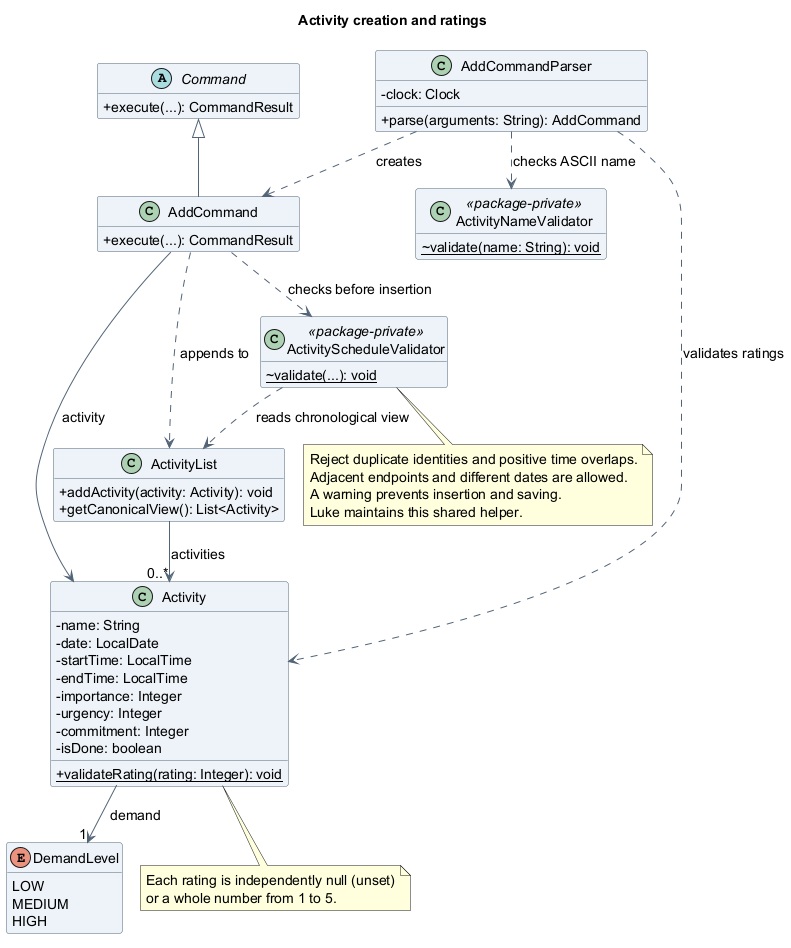
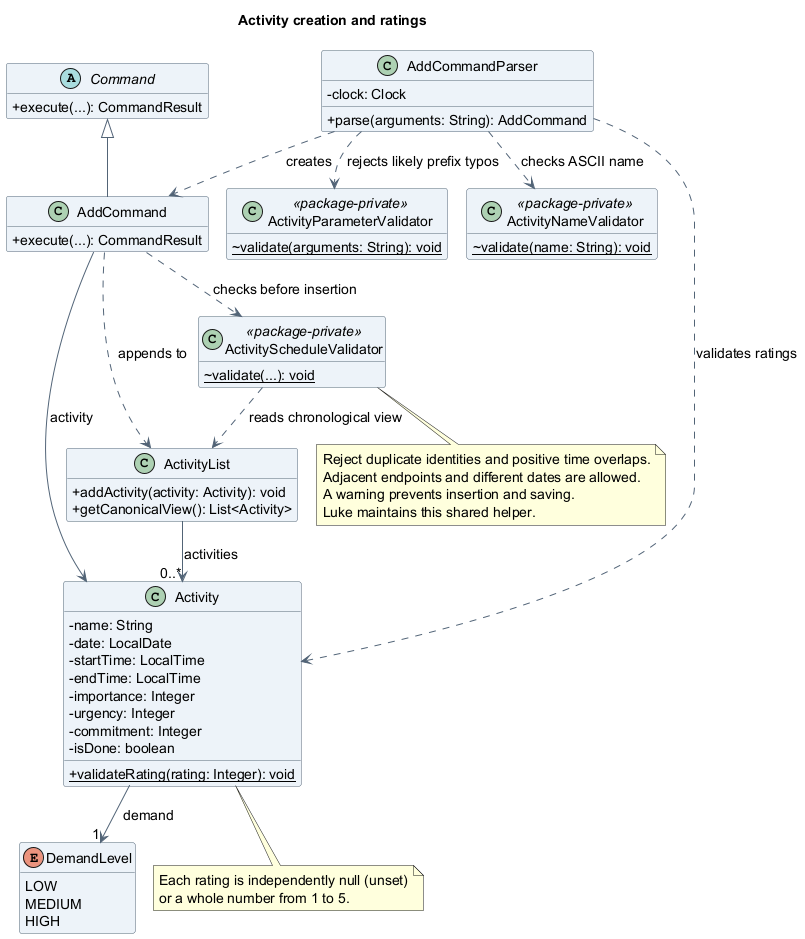
fix(parser): warn and reject likely activity parameter typos
Detect one-edit misspellings and adjacent swaps in multi-letter prefixes before add or edit can absorb them into a name. Keep normal slash-containing names valid, verify warnings and unchanged saved data through the console, and update guides and input-validation diagrams under their existing feature scopes.

diff --git a/src/main/java/seedu/unienable/parser/ActivityParameterValidator.java b/src/main/java/seedu/unienable/parser/ActivityParameterValidator.java
@@ -1,0 +1,71 @@
+//@@author lukelouyu
+package seedu.unienable.parser;
+
+import java.util.List;
+import java.util.Locale;
+import java.util.regex.Matcher;
+import java.util.regex.Pattern;
+
+import seedu.unienable.exception.ParseException;
+
+/**
+ * Catches likely misspellings of activity fields without treating every slash in a name as a field.
+ */
+final class ActivityParameterValidator {
+    private static final Pattern PARAMETER = Pattern.compile("(?i)(?<!\\S)([a-z]+)/");
+    private static final List<String> PREFIXES = List.of("n", "d", "s", "e", "dem", "imp", "urg", "com");
+
+    /** Prevents instantiation of this shared parser helper. */
+    private ActivityParameterValidator() {
+    }
+
+    /**
+     * Rejects a one-edit typo in a multi-letter prefix, including an adjacent transposition.
+     * Ordinary slash text such as and/or, w/o and module codes remains valid name content.
+     *
+     * @param arguments unparsed activity fields.
+     * @throws ParseException when a token is likely a misspelled parameter.
+     */
+    static void validate(String arguments) throws ParseException {
+        Matcher matcher = PARAMETER.matcher(arguments);
+        while (matcher.find()) {
+            String token = matcher.group(1).toLowerCase(Locale.ROOT);
+            if (PREFIXES.contains(token)) {
+                continue;
+            }
+            for (String prefix : PREFIXES) {
+                if (prefix.length() > 1 && token.length() > 1 && isOneEditAway(token, prefix)) {
+                    throw new ParseException("[WARNING] Unknown parameter '" + token
+                            + "/'. Did you mean '" + prefix + "/'?");
+                }
+            }
+        }
+    }
+
+    /** Computes edit distance with adjacent swaps for the short field-prefix tokens. */
+    private static boolean isOneEditAway(String token, String prefix) {
+        if (Math.abs(token.length() - prefix.length()) > 1) {
+            return false;
+        }
+        int[][] distance = new int[token.length() + 1][prefix.length() + 1];
+        for (int i = 0; i <= token.length(); i++) {
+            distance[i][0] = i;
+        }
+        for (int j = 0; j <= prefix.length(); j++) {
+            distance[0][j] = j;
+        }
+        for (int i = 1; i <= token.length(); i++) {
+            for (int j = 1; j <= prefix.length(); j++) {
+                int substitution = token.charAt(i - 1) == prefix.charAt(j - 1) ? 0 : 1;
+                distance[i][j] = Math.min(distance[i - 1][j] + 1,
+                        Math.min(distance[i][j - 1] + 1, distance[i - 1][j - 1] + substitution));
+                if (i > 1 && j > 1 && token.charAt(i - 1) == prefix.charAt(j - 2)
+                        && token.charAt(i - 2) == prefix.charAt(j - 1)) {
+                    distance[i][j] = Math.min(distance[i][j], distance[i - 2][j - 2] + 1);
+                }
+            }
+        }
+        return distance[token.length()][prefix.length()] == 1;
+    }
+}
+//@@author

diff --git a/src/test/java/seedu/unienable/UniEnableTest.java b/src/test/java/seedu/unienable/UniEnableTest.java
@@ -67,6 +67,27 @@ class UniEnableTest {
                 console(""));
     }
 
+    //@@author lukelouyu
+    @Test
+    void mistypedActivityParameters_warnWithoutAddingEditingOrSaving(@TempDir Path tempDir) throws Exception {
+        Path activityFile = tempDir.resolve("activities.txt");
+        byte[] original = "Existing|2099-12-10|09:00|10:00|LOW|false|-|-|-\n"
+                .getBytes(StandardCharsets.UTF_8);
+        Files.write(activityFile, original);
+        var originalTime = Files.getLastModifiedTime(activityFile);
+
+        String output = consoleAtPath("add n/Class demm/HIGH d/2099-12-11 s/09:00 e/10:00\n"
+                + "edit 1 n/Changed impp/5\nlist\nbye\n", activityFile);
+
+        assertEquals(2, output.split("Unknown parameter", -1).length - 1, output);
+        assertFalse(output.contains("Added activity:"), output);
+        assertFalse(output.contains("Edited activity:"), output);
+        assertTrue(output.contains("1. Existing (2099-12-10, 09:00-10:00) [LOW] [ ]"), output);
+        assertArrayEquals(original, Files.readAllBytes(activityFile));
+        assertEquals(originalTime, Files.getLastModifiedTime(activityFile));
+    }
+    //@@author
+
     //@@author Atharva005
     @Test
     void topicHelp_showsInstructionsWithoutChangingActivitiesOrExiting(@TempDir Path tempDir) throws Exception {

diff --git a/src/main/java/seedu/unienable/parser/AddCommandParser.java b/src/main/java/seedu/unienable/parser/AddCommandParser.java
@@ -63,6 +63,7 @@ public class AddCommandParser {
      * @throws ParseException for absent, duplicate, unknown, or malformed arguments.
      */
     public AddCommand parse(String arguments) throws ParseException {
+        ActivityParameterValidator.validate(arguments);
         Map<String, String> fields = readFields(arguments);
         for (String required : new String[] {"n", "d", "s", "e"}) {
             if (!fields.containsKey(required)) {
@@ -127,7 +128,8 @@ public class AddCommandParser {
     /**
      * Collects prefix/value pairs while allowing whitespace inside the activity name.
      * Only known prefixes (dem, imp, urg, com, n, d, s, e) delimit values; any other
-     * slash-containing text such as "and/or" or "w/o" is kept as value content.
+     * slash-containing text such as "and/or" or "w/o" is kept as value content,
+     * except likely misspellings rejected by the shared parameter validator.
      * A known prefix like d/ that appears inside free text is still parsed as a
      * prefix, an unavoidable ambiguity of prefix-based grammars.
      */

diff --git a/src/test/java/seedu/unienable/parser/AddCommandParserTest.java b/src/test/java/seedu/unienable/parser/AddCommandParserTest.java
@@ -38,6 +38,15 @@ class AddCommandParserTest {
     private final AddCommandParser parser = new AddCommandParser(FIXED_CLOCK);
 
     @Test
+    void parse_mistypedOptionalPrefix_warnsInsteadOfSavingItInName() {
+        for (String typo : new String[]{"demm/HIGH", "dme/HIGH", "impp/5", "ur/3", "comm/4"}) {
+            ParseException error = assertThrows(ParseException.class,
+                    () -> parser.parse("n/Class " + typo + " d/2026-12-10 s/09:00 e/10:00"));
+            assertTrue(error.getMessage().contains("Unknown parameter"));
+        }
+    }
+
+    @Test
     void parse_outOfOrderFieldsAndMultiWordName_addsActivity() throws Exception {
         ActivityList activities = new ActivityList();
         Command command = parser.parse("CoM/3 dEm/hIgH E/11:45 iMp/5 N/Group Meeting "

diff --git a/src/test/java/seedu/unienable/parser/EditCommandParserTest.java b/src/test/java/seedu/unienable/parser/EditCommandParserTest.java
@@ -14,6 +14,12 @@ class EditCommandParserTest {
     private final Parser parser = new Parser();
 
     @Test
+    void parse_mistypedPrefixInName_rejectsWholeEdit() {
+        assertThrows(ParseException.class, () -> parser.parse("edit 1 n/Class demm/HIGH"));
+        assertThrows(ParseException.class, () -> parser.parse("edit 1 n/Class imp/5 comn/3"));
+    }
+
+    @Test
     void parse_rejectsMissingIndexOrFields() {
         assertThrows(ParseException.class, () -> parser.parse("edit"));
         assertThrows(ParseException.class, () -> parser.parse("edit 1"));

diff --git a/src/main/java/seedu/unienable/parser/EditCommandParser.java b/src/main/java/seedu/unienable/parser/EditCommandParser.java
@@ -58,6 +58,7 @@ public class EditCommandParser {
      * @throws ParseException for malformed or incomplete input
      */
     public EditCommand parse(String arguments) throws ParseException {
+        ActivityParameterValidator.validate(arguments);
         String trimmed = arguments.trim();
         if (trimmed.isEmpty()) {
             throw invalid("edit needs an activity index.");

diff --git a/docs/DeveloperGuide.md b/docs/DeveloperGuide.md
@@ -39,6 +39,7 @@ Named author comments begin a feature scope; the unnamed author comment ends it.
     - [Completion and persistence](#completion-and-persistence)
   - [Ratings and accessibility](#ratings-and-accessibility)
     - [Optional ratings integration](#optional-ratings-integration)
+    - [Activity parameter validation](#activity-parameter-validation)
     - [Activity schedule validation](#activity-schedule-validation)
     - [Facility accessibility data (`facilities.txt`)](#facility-accessibility-data-facilitiestxt)
     - [Facility lookup](#facility-lookup)
@@ -283,6 +284,9 @@ follow the start and the current local time. Invalid input produces a
 `ParseException` without adding an activity.
 
 `AddCommandParser` checks supplied names through `ActivityNameValidator`.
+Both add and edit parsers use `ActivityParameterValidator` to reject one-edit
+misspellings of multi-letter fields, including adjacent swaps, before parsing
+values. See [Activity parameter validation](#activity-parameter-validation).
 `AddCommand` checks the proposed activity with the shared
 [schedule validator](#activity-schedule-validation) before inserting it. The
 add diagrams include both checks and the rejection path without a save.
@@ -1020,6 +1024,28 @@ an integer from 1 to 5, so add, edit and storage use the same validation rule.
 The class diagram in [Adding activities](#adding-activities) shows
 how ratings fit into activity creation. The priority view uses
 these ratings; editing and persistence update and preserve them.
+
+#### Activity parameter validation
+
+`ActivityParameterValidator` is a package-private shared parser helper. Add and
+edit call `validate(arguments)` before extracting fields, so likely typos cannot
+silently become part of an activity name. The helper scans prefix-like tokens,
+skips known prefixes, and compares unknown multi-letter tokens with recognised
+multi-letter prefixes. One insertion, deletion, substitution, or adjacent swap
+produces a `ParseException` suggesting the intended prefix.
+
+For example, `demm/HIGH` produces an unknown-parameter warning suggesting `dem/`.
+`ConsoleHelper` displays that warning; no add/edit command executes and neither
+activities nor saved data changes. Ordinary slash text such as `and/or` and `w/o`
+remains valid. Single-letter slash text is excluded from the typo check.
+
+![Shared activity parameter validator and its add/edit parser integrations](images/luke/class/ActivityParameterValidatorClassDiagram.png)
+
+Source: [ActivityParameterValidatorClassDiagram.puml](diagrams/luke/class/ActivityParameterValidatorClassDiagram.puml).
+
+![Activity parameter validation rejecting a typo before command execution](images/luke/sequence/ActivityParameterValidationSequence.png)
+
+Source: [ActivityParameterValidationSequence.puml](diagrams/luke/sequence/ActivityParameterValidationSequence.puml).
 
 #### Activity schedule validation
 

diff --git a/docs/diagrams/README.md b/docs/diagrams/README.md
@@ -121,6 +121,7 @@ are rendered from the corresponding PlantUML sources.
 | [FacilityClassDiagram.puml](luke/class/FacilityClassDiagram.puml) | [PNG](../images/luke/class/FacilityClassDiagram.png) | [Facility lookup](../DeveloperGuide.md#facility-lookup) |
 | [ActivityScheduleValidatorClassDiagram.puml](luke/class/ActivityScheduleValidatorClassDiagram.puml) | [PNG](../images/luke/class/ActivityScheduleValidatorClassDiagram.png) | [Activity schedule validation](../DeveloperGuide.md#activity-schedule-validation) |
 | [ActivityNameValidatorClassDiagram.puml](luke/class/ActivityNameValidatorClassDiagram.puml) | [PNG](../images/luke/class/ActivityNameValidatorClassDiagram.png) | [ASCII command/name validation](../DeveloperGuide.md#ascii-command-name-validation) |
+| [ActivityParameterValidatorClassDiagram.puml](luke/class/ActivityParameterValidatorClassDiagram.puml) | [PNG](../images/luke/class/ActivityParameterValidatorClassDiagram.png) | [Activity parameter validation](../DeveloperGuide.md#activity-parameter-validation) |
 | [RoutingClassDiagram.puml](luke/class/RoutingClassDiagram.puml) | [PNG](../images/luke/class/RoutingClassDiagram.png) | [Accessible route search](../DeveloperGuide.md#accessible-route-search) |
 
 ### Sequence diagrams
@@ -129,6 +130,7 @@ are rendered from the corresponding PlantUML sources.
 | --- | --- | --- |
 | [FacilityLookupSequence.puml](luke/sequence/FacilityLookupSequence.puml) | [PNG](../images/luke/sequence/FacilityLookupSequence.png) | [Facility lookup](../DeveloperGuide.md#facility-lookup) |
 | [RouteSearchSequence.puml](luke/sequence/RouteSearchSequence.puml) | [PNG](../images/luke/sequence/RouteSearchSequence.png) | [Accessible route search](../DeveloperGuide.md#accessible-route-search) |
+| [ActivityParameterValidationSequence.puml](luke/sequence/ActivityParameterValidationSequence.puml) | [PNG](../images/luke/sequence/ActivityParameterValidationSequence.png) | [Activity parameter validation](../DeveloperGuide.md#activity-parameter-validation) |
 
 ### Connectivity graph
 

diff --git a/docs/images/README.md b/docs/images/README.md
@@ -92,6 +92,10 @@ including its presentation of Luke's rating fields. Class/sequence diagrams use
 
 ## Luke
 
+- [ActivityParameterValidatorClassDiagram.png](luke/class/ActivityParameterValidatorClassDiagram.png)
+  shows the shared prefix-typo checker used by add and edit.
+- [ActivityParameterValidationSequence.png](luke/sequence/ActivityParameterValidationSequence.png)
+  shows a typo warning before an activity command can execute or save.
 - [ActivityNameValidatorClassDiagram.png](luke/class/ActivityNameValidatorClassDiagram.png)
   shows ASCII command-word checks and the name validator used by add/edit parsers.
 - [ActivityScheduleValidatorClassDiagram.png](luke/class/ActivityScheduleValidatorClassDiagram.png)

diff --git a/docs/UserGuide.md b/docs/UserGuide.md
@@ -178,6 +178,9 @@ and `w/o` is allowed. However, a known prefix (`n/`, `d/`, `s/`, `e/`, `dem/`,
 at the start of a whitespace-separated part of the name is treated as another
 field, so avoid these prefixes in names.
 
+Likely misspellings of multi-letter prefixes, such as `demm/HIGH` or `impp/5`,
+produce a warning instead of becoming part of the name. This also applies to edit.
+
 A duplicate activity has the same name (ignoring case and surrounding whitespace),
 date, start and end times as an existing activity. Changing demand, ratings or
 completion does not make it a different activity. Duplicates are rejected with
